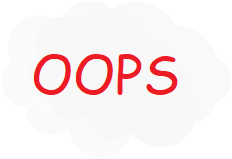
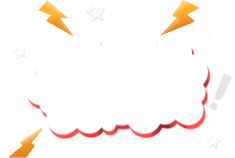
check scrolling

diff --git a/src/scripts/scenes/Modal/herdBoost.ts b/src/scripts/scenes/Modal/herdBoost.ts
@@ -473,15 +473,15 @@ function drag(animal): void {
 
   this.input.on('dragend', (pointer: any, animal: Phaser.Physics.Arcade.Sprite): void => {
 
-    if (animal.body === null) return;
+    // if (animal.body === null) return;
 
     if ((animal.y < 480 && animal.x < 480) || animal.y > 960 || animal.y < 200) {
-        animal.data?.values.woolSprite?.destroy();
         const position: Iposition = {
           x: animal.x,
           y: animal.y
         } 
         this.mergingCloud(position, true);
+        animal.data?.values.woolSprite?.destroy();
         animal.destroy();
         console.log('miss drop')
       } else {
@@ -592,8 +592,8 @@ function checkMerging(animal: Phaser.Physics.Arcade.Sprite, position: string): v
         this.time.addEvent({ delay: 100, callback: (): void => {
         
           const position: Iposition = {
-            x: animal.x,
-            y: animal.y
+            x: x,
+            y: y
           }
           this.mergingCloud(position);
 
@@ -608,8 +608,8 @@ function checkMerging(animal: Phaser.Physics.Arcade.Sprite, position: string): v
         this.time.addEvent({ delay: 100, callback: (): void => {
           
           const position: Iposition = {
-            x: animal.x,
-            y: animal.y
+            x: x,
+            y: y
           }
           this.mergingCloud(position, true);
           

diff --git a/src/scripts/elements.ts b/src/scripts/elements.ts
@@ -73,11 +73,16 @@ function mergingCloud(position: Iposition, type: boolean = false): void {
   let cloud = !type 
     ? this.add.image(x, y, 'merging-animation').setDepth(y + 100) 
     : this.add.image(x, y, 'bad-merging-animation').setDepth(y + 100);
-  let delay = 10;
+  let cloudText = this.add.text(x, y, this.state.lang.herdBoostBadMerge, {
+    font: '64px Shadow',
+    color: '#000'
+  }).setOrigin(0.5, 0.5).setVisible(type);
+
+  let delay = !type ? 10 : 5;
   let interval = this.time.addEvent({ delay: 30, callback: (): void => {
 
     cloud.y -= 4;
-    
+    cloudText.y = cloud.y;
     if (delay === 0) {
 
       let alpha: number = Number(cloud.alpha.toFixed(2)) - 0.02;
@@ -85,6 +90,7 @@ function mergingCloud(position: Iposition, type: boolean = false): void {
 
       if (alpha <= 0.03) {
         cloud.destroy();
+        cloudText.destroy();
         interval.remove(false);
       }
 

diff --git a/src/scripts/scenes/Modal/Shop/Main.ts b/src/scripts/scenes/Modal/Shop/Main.ts
@@ -150,8 +150,8 @@ class Shop extends Phaser.Scene {
       if (this.state.farm === 'Sheep') this.sheep();
       else if (this.state.farm === 'Chicken') this.chicken();
 
-    } else if (this.state.modal.shopType === 4) {
-
+    } else if (this.state.modal.shopType === 4) {   
+      this.scrolling.bottom = this.height - this.heightWindow + 300;   
       if (this.state.farm === 'Sheep') this.sheepBoosts();
       else if (this.state.farm === 'Chicken') this.chickenBoosts();
       this.herdBoost();
@@ -160,6 +160,7 @@ class Shop extends Phaser.Scene {
   }
 
   public herdBoost(): void {
+    console.log('data',this.scrolling.bottom);
     this.add.tileSprite(0, 344 + this.height, 466, 230, 'boost-bg').setOrigin(0, 0);
     this.add.text(225, 360 + this.height, this.state.lang[`herdBoostTitle${this.state.farm}`], { // Заменить текст
       font: '28px Shadow',

diff --git a/src/scripts/scenes/Modal/Shop/sheep.ts b/src/scripts/scenes/Modal/Shop/sheep.ts
@@ -199,9 +199,6 @@ function sheep(): void {
 
 // бусты
 function sheepBoosts(): void {
-
-  this.scrolling.bottom = this.height - this.heightWindow + 300;
-
   // собиратель шерсти
   this.add.sprite(0, 20 + this.height, 'boost-bg').setOrigin(0, 0);
   this.add.text(225, 40 + this.height, this.state.lang.woolCollector, {

diff --git a/src/scripts/scenes/Modal/Shop/chicken.ts b/src/scripts/scenes/Modal/Shop/chicken.ts
@@ -196,9 +196,6 @@ function chicken(): void {
 
 // бусты
 function chickenBoosts(): void {
-
-  this.scrolling.bottom = this.height - this.heightWindow + 300;
-
   // собиратель яиц
   this.add.sprite(0, 20 + this.height, 'boost-bg').setOrigin(0, 0);
   this.add.text(225, 40 + this.height, this.state.lang.eggCollector, {

diff --git a/src/scripts/langs.ts b/src/scripts/langs.ts
@@ -426,6 +426,7 @@ export default {
     stillForBoost: 'До бесплатного осталось',
     herdBoostTitleSheep: 'Стадо овец',
     herdBoostTitleChicken: 'Стая птиц',
+    herdBoostBadMerge: 'Oops!'
   },
   en: {
     index: 'en',
